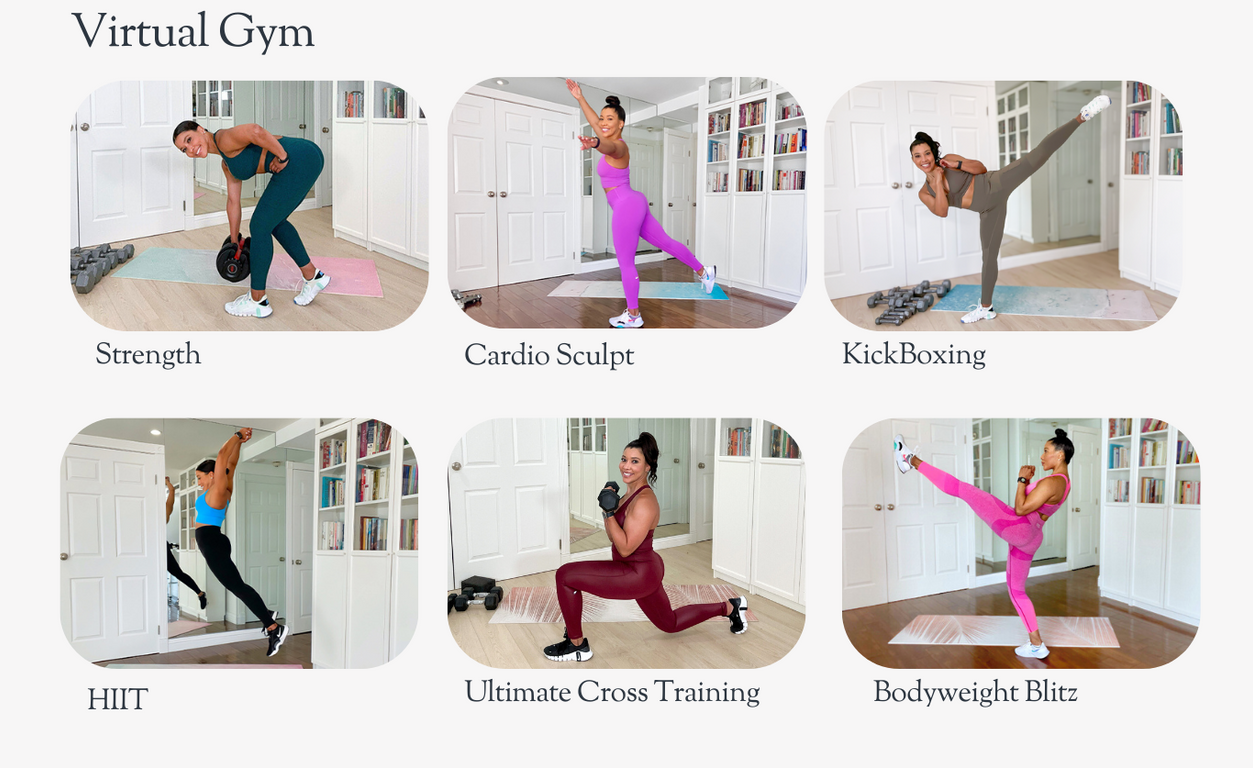
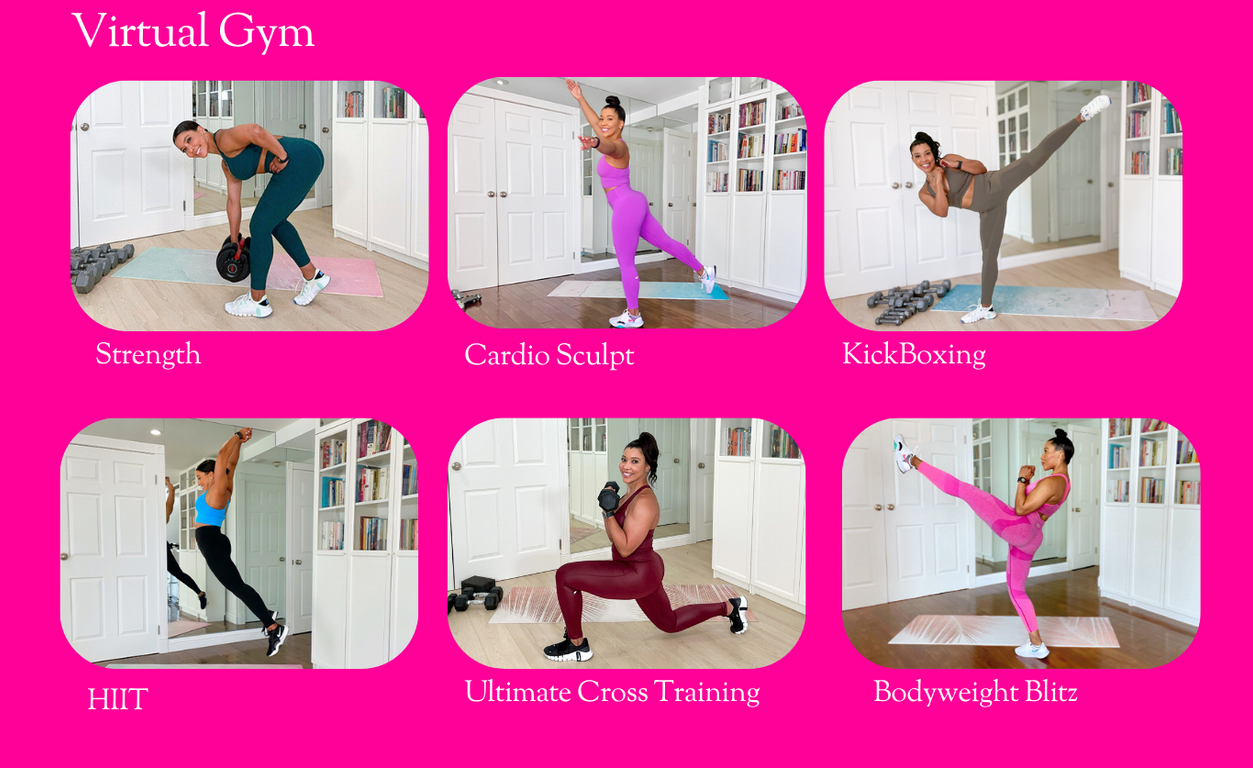
11-4-24 3:12

diff --git a/index.html b/index.html
@@ -71,30 +71,37 @@
     <section class="banner-section">
       <div class="banner-inner">
         <div class="banner-dec">
-          <h1>Virtual Gym</h1>
-          <p>Several Different Methods of Training</p>
-          <div class="banner-dec-list">
-            <ul>
-              <li>Strength</li>
-              <li>Sculpting</li>
-              <li>Cardio</li>
-              <li>HllT</li>
-              <li>Kickboxing</li>
-              <li>Resistance Bands</li>
-              <li>Sliders</li>
-            </ul>
-            <ul>
-              <li>Yoga</li>
-              <li>Pilates</li>
-              <li>Mobility</li>
-              <li>Stretching</li>
-              <li>Cross Training</li>
-              <li>Beginner</li>
-              <li>30Min or Less</li>
-            </ul>
-          </div>
-          <div class="join-btn">
-            <a href="#https://thehollywoodtrainerclub.com/sign-up/">Join Now</a>
+          <div class="banner-dec-inner">
+            <h1>Virtual Gym</h1>
+            <p>
+              Access to 500+ Workouts, Bootcamps & Challenges. Flexibility -
+              Several Different Methods Of Training.
+            </p>
+            <div class="banner-dec-list">
+              <ul>
+                <li>Strength</li>
+                <li>Sculpting</li>
+                <li>Cardio</li>
+                <li>HllT</li>
+                <li>Kickboxing</li>
+                <li>Resistance Bands</li>
+                <li>Sliders</li>
+              </ul>
+              <ul>
+                <li>Yoga</li>
+                <li>Pilates</li>
+                <li>Mobility</li>
+                <li>Stretching</li>
+                <li>Cross Training</li>
+                <li>Beginner</li>
+                <li>30Min or Less</li>
+              </ul>
+            </div>
+            <div class="join-btn">
+              <a href="#https://thehollywoodtrainerclub.com/sign-up/"
+                >Join Now</a
+              >
+            </div>
           </div>
         </div>
         <div class="banner-img">

diff --git a/css/style.css b/css/style.css
@@ -110,36 +110,40 @@ ul {
 /* banner-section */
 .banner-section {
   width: 100%;
-  height: 80vh;
 }
 .banner-section .banner-inner {
-  gap: 10px;
+  height: 84vh;
   display: flex;
   align-items: center;
+  background-color: #ff0099;
 }
 .banner-section .banner-inner .banner-dec {
   width: 40%;
-  height: 80vh;
-  background-color: #f7f8f4;
-  display: flex;
-  flex-direction: column;
+
   align-items: center;
-  justify-content: center;
+}
+.banner-section .banner-inner .banner-dec .banner-dec-inner {
+  background-color: #f7f8f4;
+  border-radius: 20px;
+  padding: 30px 20px;
+  width: 80%;
+  margin: auto;
 }
 .banner-section .banner-inner .banner-dec h1 {
   color: #fe018a;
-  font-size: 80px;
+  font-size: 68px;
+  text-align: center;
   font-weight: bold;
-  font-family: "Inter-Bold";
+  font-family: Pandora;
   text-transform: capitalize;
+  letter-spacing: 2px;
   margin-bottom: 0px;
-  margin-top: 0px;
-  position: relative;
-  display: inline-block;
 }
 .banner-section .banner-inner .banner-dec p {
-  font-size: 24px;
+  font-size: 18px;
   color: #000;
+  text-align: center;
+  margin-top: -6px;
 }
 .banner-section .banner-inner .banner-dec .banner-dec-list {
   display: flex;
@@ -158,6 +162,7 @@ ul {
 }
 .banner-section .banner-inner .banner-dec .join-btn {
   margin-top: 20px;
+  text-align: center;
 }
 .banner-section .banner-inner .banner-dec .join-btn a {
   color: #fff;
@@ -174,8 +179,6 @@ ul {
 }
 .banner-section .banner-inner .banner-img {
   width: 60%;
-  height: 80vh;
-  background: #f7f6f6;
   display: flex;
   flex-direction: column;
   align-items: center;
